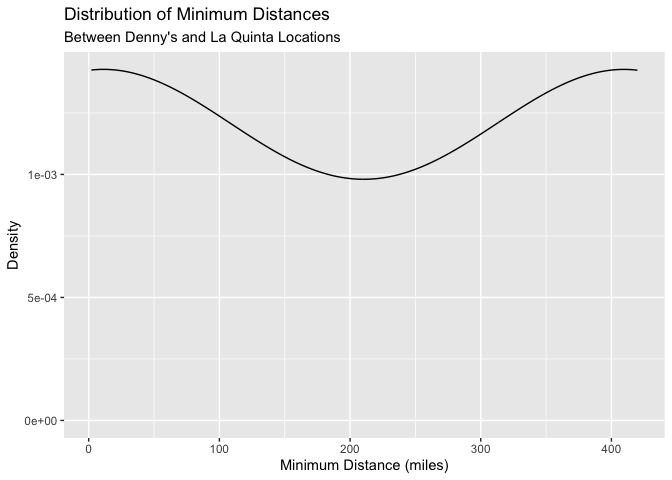
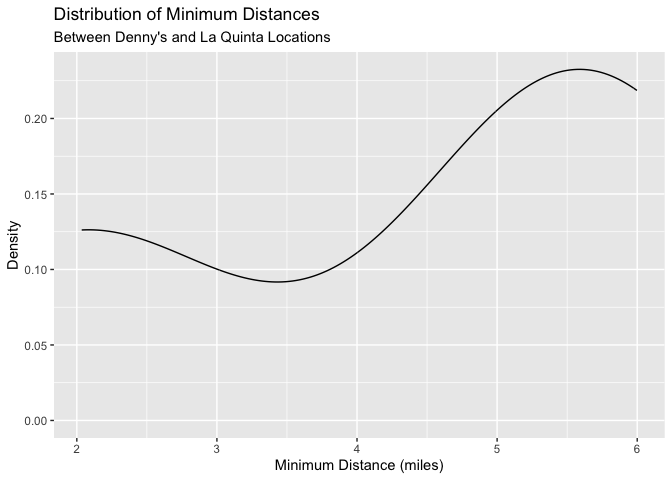
fixed ex 7

diff --git a/lab-05.md b/lab-05.md
@@ -131,33 +131,42 @@ dn_lq_ak <- dn_lq_ak %>%
 ### Exercise 7
 
 ``` r
-dn_lq_ak_min_dist <- dn_lq_ak %>% 
+dn_lq_ak_mindist <- dn_lq_ak %>% 
   group_by(address.x) %>% #group by Denny's locations
   mutate(distance = haversine(longitude.x, latitude.x, longitude.y, latitude.y)) %>% #calc minimum distance btwn a Denny's and La Quinta for each Denny's location. NTS: can just type the variables, don't need to add "long1 = ..."
-  arrange(distance) %>% 
-  ungroup() %>% #ungroup so when I print df it returns only distance variable, not address.x
-  select(distance) #select column I want to print
+  summarize(closest = min(distance))
 
-dn_lq_ak_min_dist #print df on seperate line
+dn_lq_ak_mindist #print df on separate line
 ```
 
-    ## # A tibble: 6 × 1
-    ##   distance
-    ##      <dbl>
-    ## 1     2.04
-    ## 2     5.20
-    ## 3     6.00
-    ## 4   414.  
-    ## 5   416.  
-    ## 6   420.
-
-\*add mutate min distance to find minimum distance!
+    ## # A tibble: 3 × 2
+    ##   address.x        closest
+    ##   <chr>              <dbl>
+    ## 1 1929 Airport Way    5.20
+    ## 2 2900 Denali         2.04
+    ## 3 3850 Debarr Road    6.00
 
 ### Exercise 8
 
+There are 3 Denny’s locations in Alaska. The distances range from 2 - 6
+km, with an average of 4 km.
+
 ``` r
-dn_lq_ak_min_dist %>% 
-  ggplot(aes(x = distance)) +
+summary(dn_lq_ak_mindist$closest)
+```
+
+    ##    Min. 1st Qu.  Median    Mean 3rd Qu.    Max. 
+    ##   2.035   3.616   5.197   4.410   5.598   5.998
+
+``` r
+sd(dn_lq_ak_mindist$closest)
+```
+
+    ## [1] 2.09544
+
+``` r
+dn_lq_ak_mindist %>% 
+  ggplot(aes(x = closest)) +
   geom_density() +
   labs(title = "Distribution of Minimum Distances", subtitle = "Between Denny's and La Quinta Locations", x = "Minimum Distance (miles)", y = "Density")
 ```
